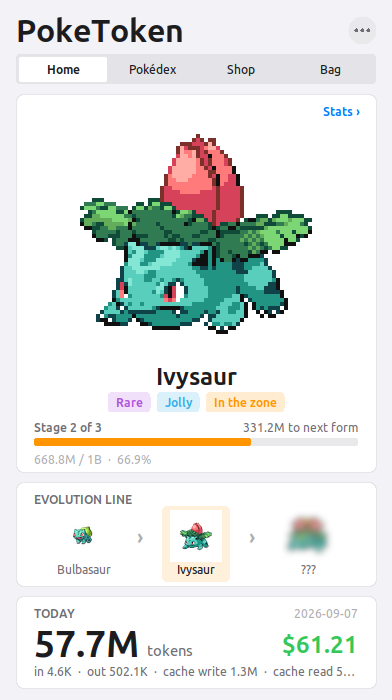
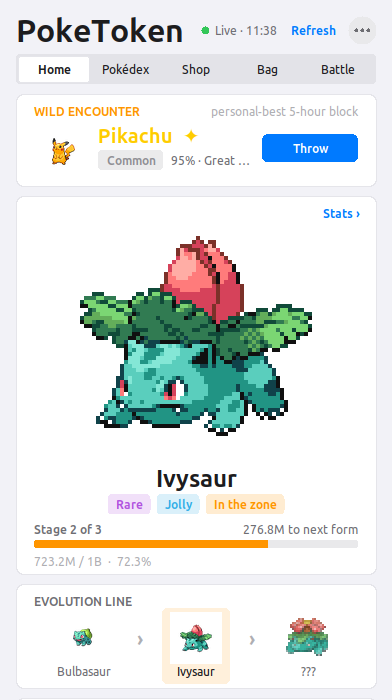
Window redesign: sync indicator, Rewards / Cost by model / Tokens by project, wide layout
- header: green Live · time, amber Refreshing…, red Sync failed · last time, next to a
  Refresh control; the footer is a one-line caption
- Home is a list of card blocks: narrow windows keep the fixed order; wide or maximised
  windows pin the companion and its evolution line to the first column and flow the rest
  into the shortest column (layout.masonry), so the page stays balanced
- new cards: Rewards (streak progress to the next candy, weekly goal, bag), Cost by model
  and Tokens by project (today, ranked bars); Activity trimmed to what is not shown elsewhere
- segmented control capped at 560 px and centred; Pokédex board grows columns with width;
  Shop, Bag, Battle and species pages stay a readable width in the centre
- README, screenshots (narrow + wide), changelog; version 0.2.0

diff --git a/poketoken/ui.py b/poketoken/ui.py
@@ -22,7 +22,7 @@ from pathlib import Path
 
 from PIL import Image, ImageSequence, ImageTk
 
-from . import battle as B, battle_ui as BU, companion as C, fmt, instance, notify
+from . import battle as B, battle_ui as BU, companion as C, fmt, instance, layout as L, notify
 
 LIGHT = dict(bg="#F2F2F7", card="#FFFFFF", sep="#E5E5EA", fill="#E9E9EB", fill2="#F4F4F6",
              label="#1C1C1E", secondary="#6E6E73", tertiary="#AEAEB2",
@@ -215,6 +215,8 @@ class PokeWindow:
         self.settled_geometry: str | None = None   # set from <Configure>, i.e. after the WM applied it
         self.poll_job = self.periodic_job = None
         self.refresh_again = False
+        self.sync_state = "busy"                   # busy | ok | error — the header indicator
+        self.last_ok: float | None = None
         self.want_quit = False                     # set by SIGTERM / `poketoken close`
 
         r = self.root = tk.Tk()
@@ -327,6 +329,8 @@ class PokeWindow:
             return
         self.busy = True
         self.refresh_again = False
+        self.sync_state = "busy"
+        self._draw_sync()
         # The worker must not capture `self`: if it ended up holding the last reference to the
         # Tk root, Tk would be torn down from a non-main thread (Tcl_AsyncDelete abort).
         app, q, lock = self.app, self.q, self.lock
@@ -373,11 +377,13 @@ class PokeWindow:
                 self.busy = False
                 if kind == "ok":
                     self.payload = payload
+                    self.sync_state, self.last_ok = "ok", payload["at"]
                     for ev in payload["events"]:
                         self._toast(self._event_text(ev))
                     self.render()
                 else:
                     self.app.log(f"ui refresh error: {payload}")
+                    self.sync_state = "error"
                     self._toast("Refresh failed — see events.log")
                     self.render()
                 if self.refresh_again:
@@ -670,6 +676,10 @@ class PokeWindow:
             y = self.draw_compact(w)
         else:
             y = self.draw_header(w)
+            narrow = self.detail is not None or self.tab in ("shop", "bag", "battle")
+            if narrow:                                   # reading pages stay a readable width, centred
+                cw = min(cw, 560)
+                x0 = (w - cw) / 2
             if self.detail is not None:
                 y = self.draw_species(y, x0, cw)
             else:
@@ -700,9 +710,11 @@ class PokeWindow:
                                outline="", tags=("more",))
         self.c.tag_bind("more", "<Button-1>", self._show_menu)
         self._hand("more")
+        self._draw_sync(w)
         y += 40
-        # segmented control
-        x, segw, h = 16, w - 32, 30
+        # segmented control (capped and centred when the window is wide)
+        segw = min(w - 32, 560)
+        x, h = (w - segw) / 2, 30
         self.rrect(x, y, x + segw, y + h, 9, fill="seg")
         n = len(TABS)
         each = (segw - 4) / n
@@ -719,18 +731,90 @@ class PokeWindow:
             self._hand(tag)
         return y + h + 10
 
+    def _draw_sync(self, w: int | None = None) -> None:
+        """Header status: green dot Live · time, amber Refreshing…, red Sync failed — plus Refresh."""
+        c = self.c
+        c.delete("sync")
+        if self.compact:
+            return
+        w = w or max(240, c.winfo_width() or 392)
+        colour, label = {"ok": ("green", "Live"), "busy": ("orange", "Refreshing…"),
+                         "error": ("red", "Sync failed")}.get(self.sync_state, ("gray", "…"))
+        if self.sync_state == "ok" and self.last_ok:
+            label += " · " + datetime.fromtimestamp(self.last_ok).strftime("%H:%M")
+        elif self.sync_state == "error" and self.last_ok:
+            label += " · last " + datetime.fromtimestamp(self.last_ok).strftime("%H:%M")
+        x = w - 30 - 14 - 12                                   # left of the ⋯ button
+        cy = 14 + 16
+        if self.sync_state != "busy":
+            rw = self.measure("Refresh", "captionB")
+            c.create_text(x, cy, text="Refresh", font=self.F["captionB"], fill=self.P["blue"], anchor="e", tags=("sync", "refresh"))
+            c.tag_bind("refresh", "<Button-1>", lambda e: self.refresh())
+            self._hand("refresh")
+            x -= rw + 14
+        c.create_text(x, cy, text=label, font=self.F["caption"], fill=self.P["secondary"], anchor="e", tags=("sync",))
+        x -= self.measure(label, "caption") + 10
+        c.create_oval(x - 4, cy - 4, x + 4, cy + 4, fill=self.P[colour], outline="", tags=("sync",))
+
     # ------------------------------------------------------------------ home
     def draw_home(self, y, x0, cw) -> int:
-        comp, s = self.app.companion, self.app.companion.state
-        snap = self.payload["snap"] if self.payload else None
-        state = comp.display_state
-        accent = STATE_COLOR.get(state, "blue")
+        """Home is a set of cards. Narrow window: one column in a fixed order. Wide window: the
+        companion and its evolution line pin to the first column, the rest flow into the
+        shortest column (masonry) so the page stays balanced when maximised."""
+        w = cw + 2 * x0
+        cols = L.columns_for(w)
+        blocks = self._home_blocks()
+        if cols == 1:
+            for fn, _pin in blocks:
+                y = fn(y, x0, cw) + 10
+            return y - 10
+        geo = L.column_geometry(w, cols)
+        drawn = []                                             # (items, height) per block, drawn at y=0
+        for fn, pin in blocks:
+            col = pin if pin is not None else 0
+            before = set(self.c.find_all())
+            bottom = fn(0, geo[col][0], geo[col][1])
+            items = [i for i in self.c.find_all() if i not in before]
+            drawn.append((items, bottom, col if pin is not None else None))
+        pinned = {i: c for i, (_, _, c) in enumerate(drawn) if c is not None}
+        placed = L.masonry([h for _, h, _ in drawn], cols, pinned)
+        bottom_y = y
+        for (items, h, _), (col, off) in zip(drawn, placed):
+            # unpinned blocks were drawn in column 0; shift them to their column
+            dx = geo[col][0] - geo[0][0]
+            for item in items:
+                self.c.move(item, dx, y + off)
+            bottom_y = max(bottom_y, y + off + h)
+        return bottom_y
 
+    def _home_blocks(self) -> list:
+        """(draw function, pinned column or None) in narrow-window order."""
+        comp = self.app.companion
+        snap = self.payload["snap"] if self.payload else None
+        blocks = []
         enc = comp.current_encounter()
         if enc:
-            y = self.draw_encounter_card(y, x0, cw, enc) + 10
+            blocks.append((lambda y, x, w: self.draw_encounter_card(y, x, w, enc), None))
+        blocks.append((self.draw_hero, 0))
+        if comp.state.active and comp.line:
+            s = comp.state
+            accent = STATE_COLOR.get(comp.display_state, "blue")
+            blocks.append((lambda y, x, w: self.draw_evo_line(
+                y, x, w, [(sid, st == "current") for sid, st in comp.line_items()],
+                lambda cid: comp.line.name(cid, s.language), accent, clickable=False), 0))
+        blocks.append((self.draw_today, None))
+        blocks.append((self.draw_rewards, None))
+        if snap and snap.models_cost_today:
+            blocks.append((self.draw_cost_by_model, None))
+        if snap and snap.projects_today:
+            blocks.append((self.draw_projects, None))
+        blocks.append((self.draw_activity, None))
+        return blocks
 
-        # hero card
+    def draw_hero(self, y, x0, cw) -> int:
+        comp, s = self.app.companion, self.app.companion.state
+        state = comp.display_state
+        accent = STATE_COLOR.get(state, "blue")
         hero_tag = ("hero",) if s.active else ()
         card = self.card(x0, y, cw, 10, tags=hero_tag)
         cy = y + 10
@@ -783,14 +867,10 @@ class PokeWindow:
             self.text(x0 + cw - 18, cy, "waiting for first usage", "caption", "tertiary", anchor="ne")
         cy += 20
         self.fit_card(card, x0, y, cw, cy - y)
-        y = cy + 10
+        return cy
 
-        # evolution line
-        if s.active and comp.line:
-            y = self.draw_evo_line(y, x0, cw, [(sid, st == "current") for sid, st in comp.line_items()],
-                                   lambda cid: comp.line.name(cid, s.language), accent, clickable=False) + 10
-
-        # today card
+    def draw_today(self, y, x0, cw) -> int:
+        snap = self.payload["snap"] if self.payload else None
         card = self.card(x0, y, cw, 10)
         cy = y + 10
         self.text(x0 + 18, cy, "TODAY", "captionB", "secondary")
@@ -809,28 +889,90 @@ class PokeWindow:
             cy += 16
         cy += 8
         self.fit_card(card, x0, y, cw, cy - y)
-        y = cy + 12
+        return cy
 
-        # activity card
+    def draw_bar_list(self, y, x0, cw, title: str, rows: list, right_title: str = "", colour: str = "blue") -> int:
+        """A card of ranked bars: rows = [(label, fraction, value text)]."""
+        h = 12 + 18 + 24 * max(1, len(rows)) + 8
+        self.card(x0, y, cw, h)
+        self.text(x0 + 18, y + 12, title, "captionB", "secondary")
+        if right_title:
+            self.text(x0 + cw - 18, y + 12, right_title, "caption", "tertiary", anchor="ne")
+        ry = y + 34
+        if not rows:
+            self.text(x0 + 18, ry, "nothing yet today", "caption", "tertiary")
+        label_w = min(cw * 0.36, max([self.measure(r[0], "caption") for r in rows] + [40]) + 6)
+        value_w = max([self.measure(r[2], "captionB") for r in rows] + [30])
+        bar_x = x0 + 18 + label_w + 8
+        bar_w = max(20, cw - 36 - label_w - 8 - value_w - 10)
+        for label, frac, value in rows:
+            self.text(x0 + 18, ry, self._ellipsize(label, "caption", label_w), "caption", "secondary")
+            self.capsule(bar_x, ry + 4, bar_w, 6, frac, colour)
+            self.text(x0 + cw - 18, ry - 1, value, "captionB", "label", anchor="ne")
+            ry += 24
+        return y + h
+
+    def draw_cost_by_model(self, y, x0, cw) -> int:
+        snap = self.payload["snap"]
+        rows_src = L.top_n(snap.models_cost_today, 4)
+        peak = max((v for _, v in rows_src), default=1) or 1
+        rows = [(L.short_model(m), v / peak, fmt.cost(v)) for m, v in rows_src]
+        return self.draw_bar_list(y, x0, cw, "COST BY MODEL", rows, f"today · {fmt.cost(snap.today.cost)}", "green")
+
+    def draw_projects(self, y, x0, cw) -> int:
+        snap = self.payload["snap"]
+        rows_src = L.top_n(snap.projects_today, 5)
+        peak = max((v for _, v in rows_src), default=1) or 1
+        rows = [(name, v / peak, fmt.compact(int(v))) for name, v in rows_src]
+        return self.draw_bar_list(y, x0, cw, "TOKENS BY PROJECT", rows, f"today · {fmt.compact(snap.today.total)}", "blue")
+
+    def draw_rewards(self, y, x0, cw) -> int:
+        """Streak progress toward the next candy, the weekly goal, and what is in the bag."""
+        comp = self.app.companion
+        snap = self.payload["snap"] if self.payload else None
+        today = snap.today_date if snap else comp.today
+        h = 12 + 18 + 2 * 44 + 24 + 8
+        self.card(x0, y, cw, h)
+        self.text(x0 + 18, y + 12, "REWARDS", "captionB", "secondary")
+        n, _, counts = comp.streak(today)
+        nxt_days, nxt_candy = C.next_streak_milestone(n)
+        prev = max([m for m, _ in C.STREAK_MILESTONES if m <= n] + [0])
+        if n >= C.STREAK_MILESTONES[-1][0]:
+            prev = (n // C.STREAK_REPEAT_DAYS) * C.STREAK_REPEAT_DAYS
+        frac = (n - prev) / max(1, nxt_days - prev)
+        ry = y + 34
+        self.text(x0 + 18, ry, f"Streak · {n} day{'s' if n != 1 else ''}" + ("" if counts or not n else " · not yet today"),
+                  "body", "label")
+        self.text(x0 + cw - 18, ry + 2, f"+{nxt_candy} candy at {nxt_days} days", "caption", "secondary", anchor="ne")
+        self.capsule(x0 + 18, ry + 22, cw - 36, 8, frac, "orange")
+        ry += 44
+        g = comp.weekly_goal(today)
+        self.text(x0 + 18, ry, "Weekly goal", "body", "label")
+        if g["target"]:
+            self.text(x0 + cw - 18, ry + 2, f"{fmt.compact(g['current'])} / {fmt.compact(g['target'])} · +5 candy",
+                      "caption", "secondary", anchor="ne")
+            self.capsule(x0 + 18, ry + 22, cw - 36, 8, g["progress"], "green" if g["progress"] >= 1 else "blue")
+        else:
+            self.text(x0 + cw - 18, ry + 2, f"unlocks after {g['weeks_needed']} more week(s)", "caption", "tertiary", anchor="ne")
+            self.capsule(x0 + 18, ry + 22, cw - 36, 8, 0, "blue")
+        ry += 44
+        owned = [f"{C.ITEMS[k]['label']} ×{v}" for k, v in comp.state.inventory.items() if v > 0 and k in C.ITEMS]
+        self.text(x0 + 18, ry, self._ellipsize("Bag: " + (" · ".join(owned) if owned else "empty"), "caption", cw - 36),
+                  "caption", "tertiary")
+        return y + h
+
+    def draw_activity(self, y, x0, cw) -> int:
+        comp, s = self.app.companion, self.app.companion.state
+        snap = self.payload["snap"] if self.payload else None
         rows = []
         if snap:
             tpm = snap.tokens_per_minute
             rows.append(("Burn rate", f"{fmt.compact(int(tpm))}/min · {snap.burn_tier}" if tpm and tpm > 1000 else "quiet"))
-            if snap.models_today:
-                rows.append(("Models", " · ".join(f"{m.replace('claude-', '')} {fmt.compact(n)}"
-                                                  for m, n in list(snap.models_today.items())[:2])))
             if snap.block:
                 mins = (snap.now.timestamp() - (snap.block_start or snap.now.timestamp())) / 60
                 rows.append(("5-hour block", f"{fmt.compact(snap.block.total)} · {fmt.cost(snap.block.cost)} · {mins:.0f} min"))
             rows.append(("This week", f"{fmt.compact(snap.week.total)} · {fmt.cost(snap.week.cost)}"))
             rows.append(("This month", f"{fmt.compact(snap.month.total)} · {fmt.cost(snap.month.cost)}"))
-        if snap:
-            n, _, counts = comp.streak(snap.today_date)
-            nxt_days, nxt_candy = C.next_streak_milestone(n)
-            rows.append(("Streak", f"{n} day{'s' if n != 1 else ''} · +{nxt_candy} candy at {nxt_days}" + ("" if counts else " · not yet today") if n else "none yet"))
-            g = comp.weekly_goal(snap.today_date)
-            rows.append(("Weekly goal", f"{fmt.compact(g['current'])} / {fmt.compact(g['target'])} · {fmt.percent(g['progress'] * 100)}"
-                         if g["target"] else f"unlocks in {g['weeks_needed']} week(s)"))
         rows.append(("Wallet", f"{fmt.compact(comp.wallet)} tokens"))
         grads = sum(1 for e in s.dex if not e.is_released)
         rows.append(("Pokédex", f"{grads} graduated · {len({sid for e in s.dex for sid in e.chain_order})} species"))
@@ -843,7 +985,7 @@ class PokeWindow:
             if i < len(rows) - 1:
                 self.sep(x0 + 18, ry + 37, cw - 36)
             ry += 38
-        return y + h + 12
+        return y + h
 
     def draw_encounter_card(self, y, x0, cw, enc: dict) -> int:
         """A wild Pokémon is waiting: who it is, how likely a catch is, and a throw button."""
@@ -899,7 +1041,7 @@ class PokeWindow:
             return y + 152
         self.text(x0 + 2, y, f"{len(species)} species", "captionB", "secondary")
         y += 20
-        cols = 3
+        cols = max(3, int(cw // 160))
         gap = 10
         cellw = (cw - gap * (cols - 1)) / cols
         cellh = cellw + 30
@@ -1694,13 +1836,9 @@ class PokeWindow:
         return y + 20
 
     def draw_footer(self, y, x0, cw) -> int:
-        at = datetime.fromtimestamp(self.payload["at"]).strftime("%H:%M:%S") if self.payload else "…"
-        self.text(x0 + cw / 2, y + 4, f"Updated {at}  ·  refresh {self.interval}s  ·  Claude Code", "caption", "tertiary", anchor="n")
-        self.text(x0 + cw / 2, y + 20, "Refresh now", "captionB", "blue", anchor="n", tags=("refresh",))
-        self.c.tag_bind("refresh", "<Button-1>", lambda e: self.refresh())
-        self._hand("refresh")
+        self.text(x0 + cw / 2, y + 6, f"auto-refresh every {self.interval} s  ·  Claude Code", "caption", "tertiary", anchor="n")
         self.c.bind("<Button-3>", self._show_menu)
-        return y + 44
+        return y + 30
 
     # ------------------------------------------------------------- animation
     def _start_sprite_animation(self) -> None:

diff --git a/tests/audit_functions.py b/tests/audit_functions.py
@@ -475,6 +475,18 @@ for label, sdir in (("rich", rich_ui), ("egg", egg_dir)):
         win.set_sprite_box(256); win.set_sprite_box(384); win.root.update()
         win.toggle_compact(); win.set_sprite_box(256); win.set_sprite_box(384); win.toggle_compact()   # compact resizes to default_geometry
         win.toggle_dark(); win.set_tab("home"); grab(win, "win-rich-dark"); win.toggle_dark()
+        win.root.geometry("1180x820"); win.set_tab("home")
+        t0 = time.time()
+        while win.root.winfo_width() < 1000 and time.time() - t0 < 5:
+            win.root.update(); time.sleep(0.05)
+        win.render(); grab(win, "win-rich-wide-home")
+        win.set_tab("dex"); win.root.update(); grab(win, "win-rich-wide-dex")
+        win.set_tab("shop"); win.root.update(); grab(win, "win-rich-wide-shop")
+        win.root.geometry("392x700"); win.set_tab("home")
+        t0 = time.time()
+        while win.root.winfo_width() > 500 and time.time() - t0 < 5:
+            win.root.update(); time.sleep(0.05)
+        win.sync_state = "error"; win._draw_sync(); win.sync_state = "ok"; win._draw_sync()
         win.toggle_compact(); win.root.update(); win._show_menu(Ev(x_root=50, y_root=50)); win.menu.unpost()
         grab(win, "win-rich-compact"); win.toggle_compact()
         win.c.yview_scroll(1, "units"); win.c.yview_scroll(-1, "units")

diff --git a/poketoken/__init__.py b/poketoken/__init__.py
@@ -3,4 +3,4 @@
 Reads Claude Code usage logs, raises a Pokémon companion from the tokens you burn,
 and shows it as a floating desktop pet (WSLg/Tk) or in the terminal.
 """
-__version__ = "0.1.0"
+__version__ = "0.2.0"

diff --git a/CHANGELOG.md b/CHANGELOG.md
@@ -1,6 +1,6 @@
 # Changelog
 
-## v0.2.0 — in progress
+## v0.2.0 — 2026-09-08
 
 ### Game
 - Activity history (120 days) backfilled from every Claude Code log; streaks (a day counts at 1M+ tokens) and a weekly goal (median of your previous weeks, floor 50M).
@@ -10,16 +10,19 @@
 - Ditto disguise (upstream port): 1/128 common multi-stage hatches reveal a Ditto at the first evolution threshold.
 - Wild encounters: a streak day or a personal-best 5-hour block spawns a wild Pokémon; Poké / Great / Ultra Balls in the Shop; capture-rate based catches go straight into the Pokédex.
 - Battle cards: `poketoken card` and `poketoken battle <card>` — deterministic, serverless fights with real type matchups.
+- Battle tab in the window: copy your card, paste a challenger's, watch the fight turn by turn, keep a win/loss record.
 
 ### Window
-- Species page (mini sprite header, stats card, evolution line, records) reachable from Home and from any Pokédex cell; the next evolution form shows blurred and sharpens with progress.
+- Species page (mini sprite header, stats card, evolution line, records) reachable from Home and from any Pokédex cell; the next evolution form shows pixelated and resolves with progress.
+- Header sync indicator (Live / Refreshing / Sync failed) with a Refresh control; Home cards for Rewards, Cost by model and Tokens by project; wide or maximised windows lay Home out in balanced columns.
 - Sprites fill a fixed container (256 / 320 / 384 / 448 px) using whole-number scaling; Home shows the companion, its evolution line and today's usage on the first screen.
 - Encounter card with a Throw button; balls in Shop and Bag; refreshes coalesce; toasts for every event.
 - Desktop notifications (Windows toast through PowerShell, `notify-send` on Linux) with an on/off switch.
 
 ### CLI and platform
 - `app` opens in the background and returns the prompt (`--fg` attaches); `close`, `toggle`, single-instance raise.
-- `history`, `stats`, `encounter`, `card`, `battle`, `notify` commands.
+- `history`, `stats`, `encounter`, `card`, `battle`, `notify`, `timer`, `autostart`, `export`, `import` commands.
+- `timer on` installs a systemd user timer that refreshes every 15 minutes so progress accrues with the window closed; `autostart on` opens the window at Windows sign-in; `export`/`import` move the save between machines.
 - Pricing per model from the current rate card, cache writes split by 5-minute and 1-hour TTL.
 
 ## v0.1.0 — 2026-09-07

diff --git a/README.md b/README.md
@@ -13,6 +13,9 @@ evolve it through its real evolution line, graduate it into your Pokédex, start
   <img src="docs/screenshots/shop.png" width="230" alt="Shop">
   <img src="docs/screenshots/dex.png" width="230" alt="Pokédex">
 </p>
+<p align="center">
+  <img src="docs/screenshots/home-wide.png" width="720" alt="Home, maximised: cards flow into balanced columns">
+</p>
 
 > Unofficial, non-commercial Pokémon fan project. Sprites and species data come from
 > [PokéAPI](https://pokeapi.co/) at runtime and are not bundled. See [License](#license--disclaimer).
@@ -103,7 +106,14 @@ second, so a stray click never spends tokens. Click the companion on Home, or an
 for that species' page: mini sprite and identity, the stats card (level, types, abilities, six
 stats with IVs and the luck behind them; graduated records show their stats at Lv 100), the
 evolution line and records. "‹ Home" / "‹ Pokédex" go back; "Pokédex ›" opens the board.
-Future forms in the evolution line are shown blurred and sharpen as you approach the threshold.
+Future forms in the evolution line are shown pixelated and resolve as you approach the threshold.
+
+The header shows sync state — a green dot with the last refresh time, amber while refreshing,
+red if a refresh failed — next to a Refresh control. Home also has cards for Rewards (streak
+progress to the next candy, the weekly goal, your bag), Cost by model and Tokens by project
+(both for today). Widen or maximise the window and Home flows its cards into two or three
+balanced columns, the Pokédex board gets more cells per row, and reading pages such as Shop,
+Bag and Battle stay at a readable width in the centre; the narrow layout is unchanged.
 
 **Battle tab.** Your card — name, level, types, the six stats and a power score — with a
 *Copy card* button that puts the `PT1.…` token on the clipboard. Paste a colleague's token into
